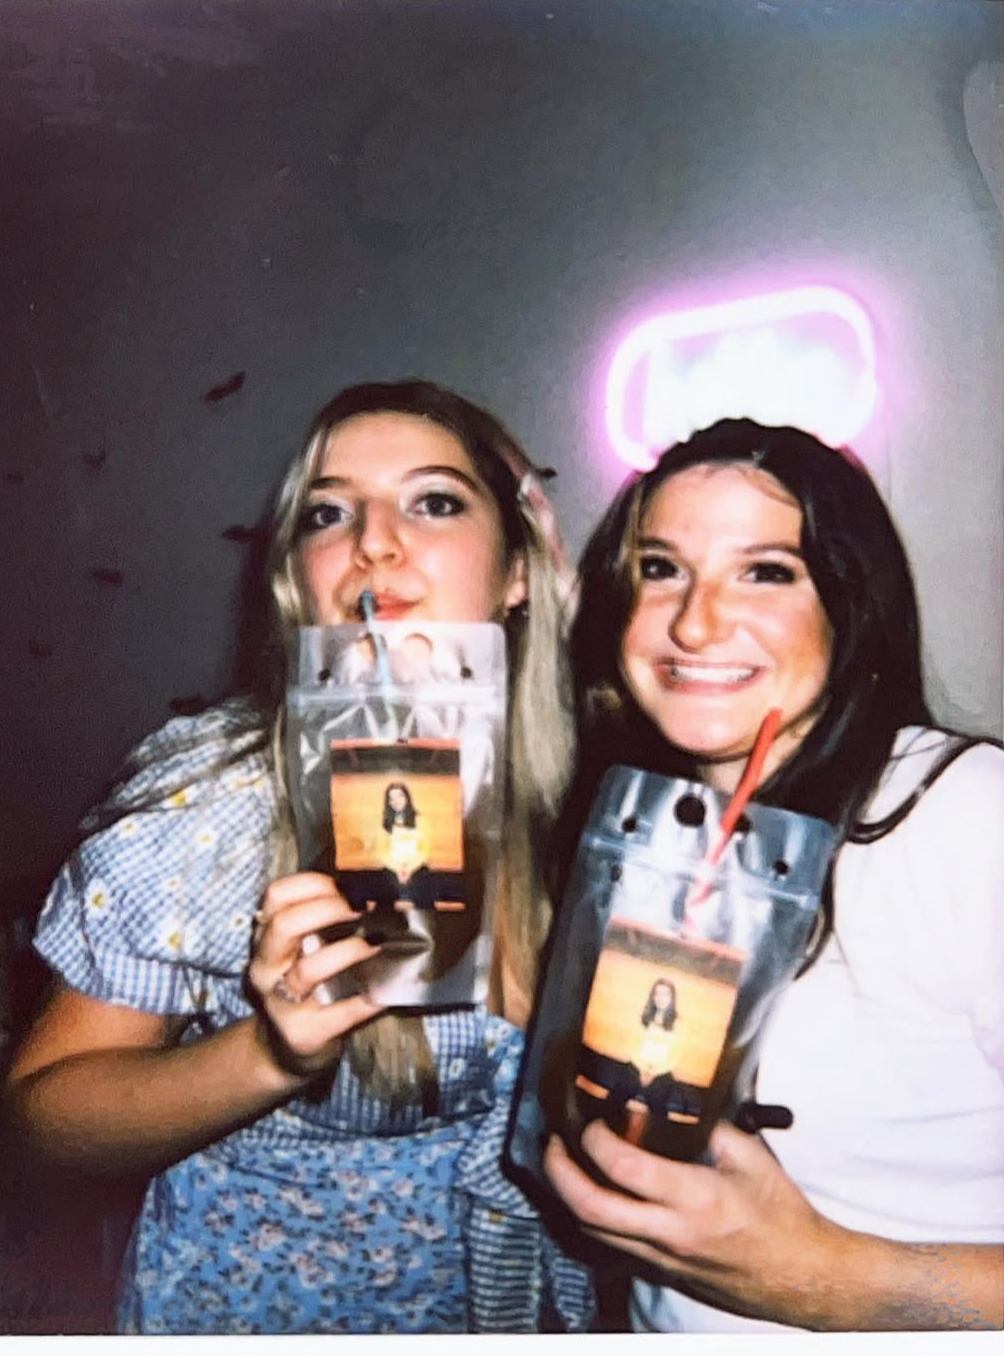
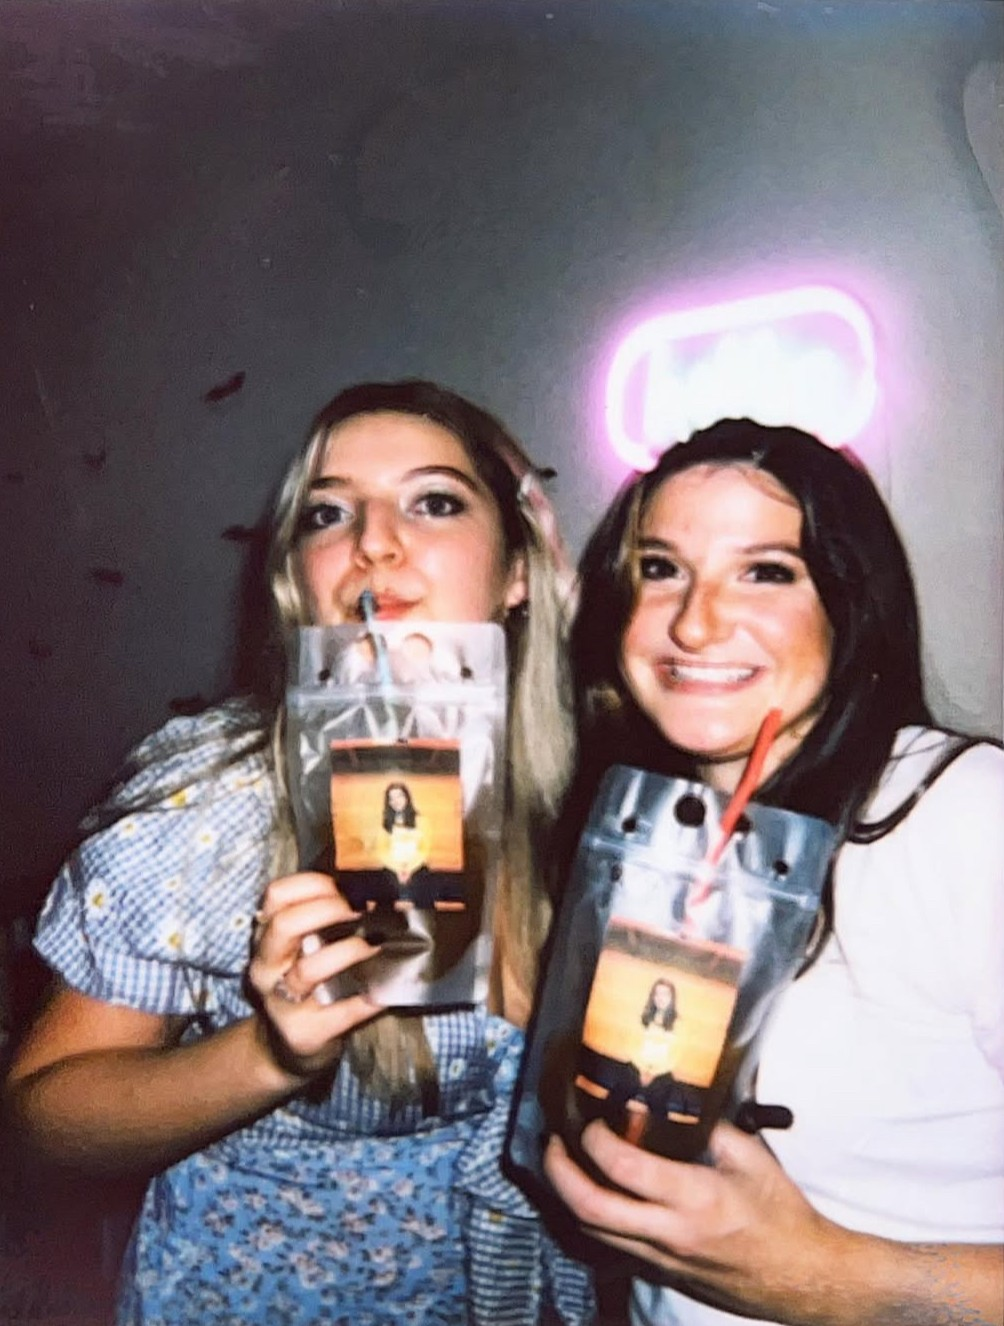
Rework About page photo proportions and copy tweak
Pulls both photo rows out of the narrow text column so the top pair
can shrink and the bottom four can grow to a more balanced size, adds
matching navy borders, crops a white polaroid-frame edge off one photo,
and swaps "mixologist" for "bartender" in the founder copy.

diff --git a/about.html b/about.html
@@ -41,21 +41,22 @@
 
   .story-section { padding-top: clamp(2rem, 5vw, 3rem); }
 
-  .story-body { max-width: 760px; margin-inline: auto; padding-block: clamp(2.5rem, 6vw, 4rem); display: flex; flex-direction: column; gap: 1.4rem; font-size: var(--fs-body-lg); line-height: 1.7; }
+  .story-body { max-width: 760px; margin-inline: auto; display: flex; flex-direction: column; gap: 1.4rem; font-size: var(--fs-body-lg); line-height: 1.7; }
   .story-body p { color: var(--ink); }
   .signoff { margin-top: 0.5rem; }
   .signoff__img { width: 80px; height: auto; margin-bottom: 0.3rem; }
   .signoff__name { font-family: var(--font-ui); letter-spacing: 0.03em; font-weight: 700; font-size: var(--fs-h3); color: var(--navy); margin: 0; }
   .signoff__title { font-family: "Nunito Sans", sans-serif; font-weight: 600; font-size: var(--fs-small); color: var(--ink); opacity: 0.7; margin: 0.2rem 0 0; }
 
-  .photo-row { display: grid; gap: clamp(0.75rem, 2vw, 1.25rem); margin-block: 2rem; }
-  .photo-row--two { grid-template-columns: repeat(2, 1fr); }
-  .photo-row--four { grid-template-columns: repeat(4, 1fr); }
+  .photo-row { display: grid; gap: clamp(0.75rem, 2vw, 1.25rem); margin-block: clamp(2rem, 5vw, 3rem); margin-inline: auto; }
+  .photo-row--two { grid-template-columns: repeat(2, 1fr); max-width: clamp(420px, 55vw, 640px); }
+  .photo-row--four { grid-template-columns: repeat(4, 1fr); max-width: clamp(700px, 88vw, 1100px); }
   .photo-row img {
     width: 100%; height: 100%; object-fit: cover;
     border-radius: var(--radius-sm);
     box-shadow: var(--shadow-soft);
     aspect-ratio: 3 / 4;
+    border: 4px solid var(--navy);
   }
   @media (max-width: 560px) {
     .photo-row--four { grid-template-columns: repeat(2, 1fr); }
@@ -109,14 +110,16 @@
         <p>I kept noticing the same thing.</p>
         <p>At house parties, someone would show up with a homemade cocktail in a pouch. Beach days, parks, concerts, same thing. People were mixing their own drinks, sealing them up, and carrying them around like they'd invented something, because they kind of had. The format was fun, portable, and social in a way that a can never quite is.</p>
         <p>The question that stuck with me: why doesn't this exist as a real product?</p>
+      </div>
 
-        <div class="photo-row photo-row--two">
-          <img src="assets/images/about/story-park-hangout.jpg" alt="Whatcha pouch out at a park hangout" />
-          <img src="assets/images/about/story-outdoors.jpg" alt="Two friends holding Whatcha pouches" />
-        </div>
+      <div class="photo-row photo-row--two">
+        <img src="assets/images/about/story-park-hangout.jpg" alt="Whatcha pouch out at a park hangout" />
+        <img src="assets/images/about/story-outdoors.jpg" alt="Two friends holding Whatcha pouches" />
+      </div>
 
+      <div class="story-body">
         <p>Our entire generation grew up with a juice pouch in every lunchbox. The pouch isn't just packaging. It's a memory. It's fun, it's easy, it's made to be shared. People were already remixing that nostalgia into something a little more grown up. All it needed was someone to do it right.</p>
-        <p>So we did. Whatcha is a spirits-based, ready-to-drink cocktail pouch, the grown-up version of the pouch drinks you grew up with. Spiked Peach Lemonade and Spiked Tropical Punch, 10% ABV, 3 grams of added sugar, crafted with award-winning mixologist Tom Macy. Built to be fun.</p>
+        <p>So we did. Whatcha is a spirits-based, ready-to-drink cocktail pouch, the grown-up version of the pouch drinks you grew up with. Spiked Peach Lemonade and Spiked Tropical Punch, 10% ABV, 3 grams of added sugar, crafted with award-winning bartender Tom Macy. Built to be fun.</p>
         <p>Squeeze the Day!</p>
 
         <div class="signoff">
@@ -124,13 +127,13 @@
           <p class="signoff__name">Ben</p>
           <p class="signoff__title">Founder</p>
         </div>
+      </div>
 
-        <div class="photo-row photo-row--four">
-          <img src="assets/images/lifestyle/poolside-portrait.jpg" alt="Woman poolside holding a Whatcha Spiked Peach Lemonade pouch" />
-          <img src="assets/images/lifestyle/beach-volleyball.jpg" alt="Friends playing beach volleyball with a Whatcha Spiked Peach Lemonade pouch in the sand" />
-          <img src="assets/images/lifestyle/poolside-fruit-flatlay.jpg" alt="Two Whatcha pouches poolside with fresh fruit" />
-          <img src="assets/images/lifestyle/night-sipping-portrait.jpg" alt="Woman sipping a Whatcha Spiked Tropical Punch pouch at dusk" />
-        </div>
+      <div class="photo-row photo-row--four">
+        <img src="assets/images/lifestyle/poolside-portrait.jpg" alt="Woman poolside holding a Whatcha Spiked Peach Lemonade pouch" />
+        <img src="assets/images/lifestyle/beach-volleyball.jpg" alt="Friends playing beach volleyball with a Whatcha Spiked Peach Lemonade pouch in the sand" />
+        <img src="assets/images/lifestyle/poolside-fruit-flatlay.jpg" alt="Two Whatcha pouches poolside with fresh fruit" />
+        <img src="assets/images/lifestyle/night-sipping-portrait.jpg" alt="Woman sipping a Whatcha Spiked Tropical Punch pouch at dusk" />
       </div>
     </div>
   </section>
